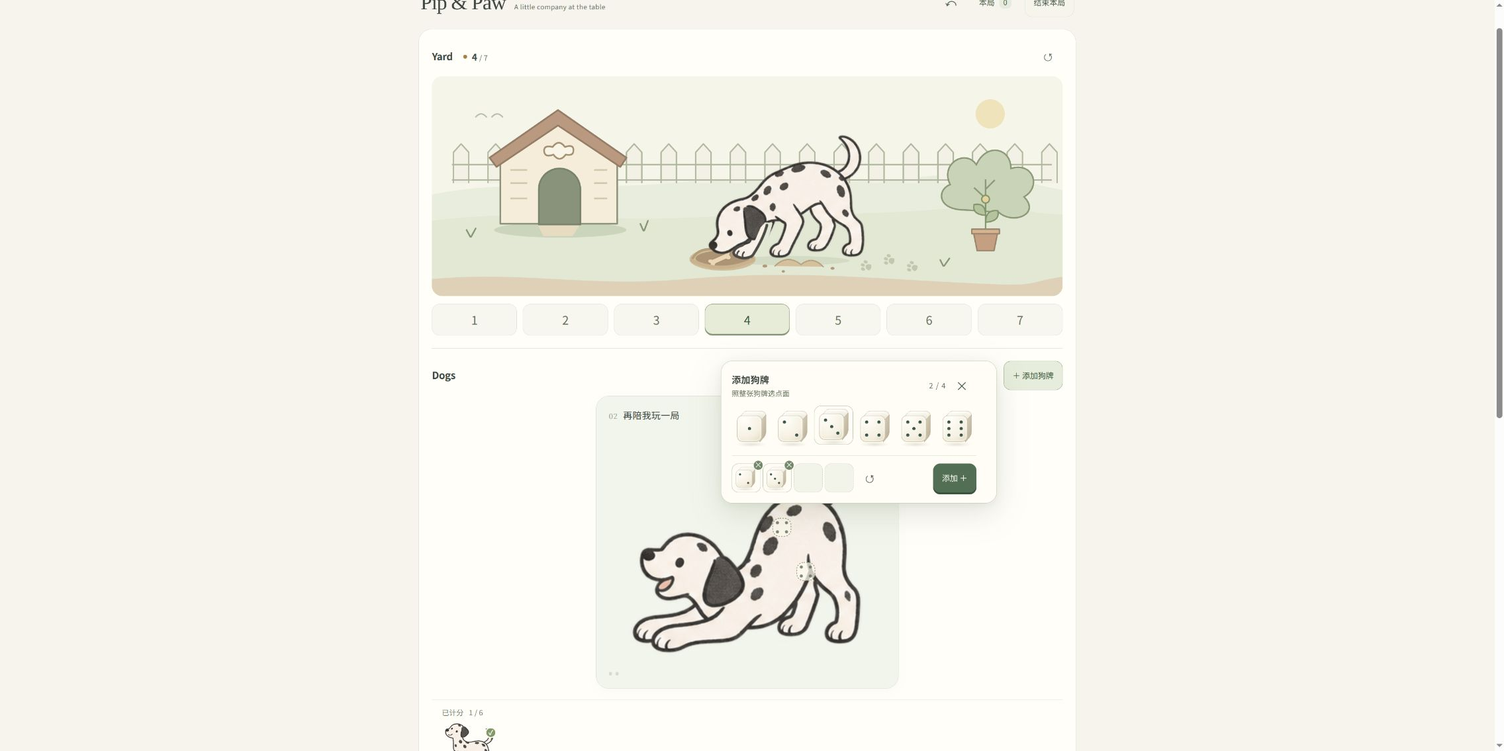
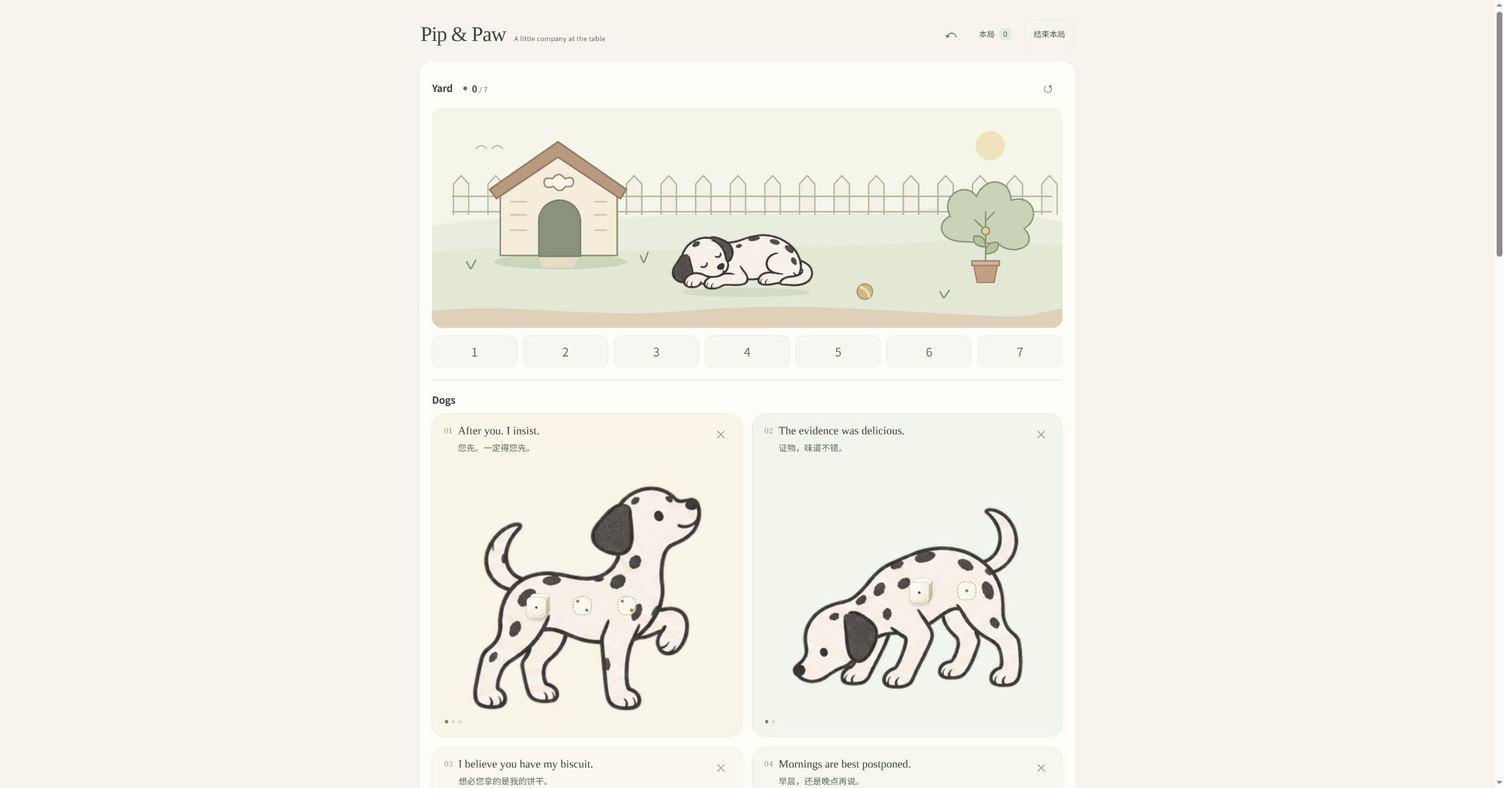
Give twelve dogs bilingual character voices

diff --git a/index.html b/index.html
@@ -197,15 +197,26 @@ main{max-width:1040px;padding-top:30px}.brand strong{font-size:32px}.brand small
 .dog-builder .clear-draft[hidden]{display:inline-flex!important;visibility:hidden;pointer-events:none}
 .dog-builder .create-dog{min-height:44px;padding:10px 13px;font-size:12px}
 .pack-heading-tools #openBuilder[aria-expanded=true],#addNextDog[aria-expanded=true]{background:#e7eddc;border-color:#9dae8e;color:#3e5a3b}
-.pack-card-heading{min-height:50px;height:auto;padding-top:7px;padding-bottom:3px}
-.pack-card-heading>div{min-width:0;gap:8px}
-.pack-card-heading .pack-number{flex:none}
-.pack-card h3{font-size:14px;line-height:1.5;letter-spacing:.025em;overflow-wrap:anywhere}
-.pack-card-heading .remove-dog{flex:none}
-.scored-dog{width:84px;line-height:1.5}
-.scored-dog .new-puppy{width:78px;margin:auto}
-.scored-dog>span:last-of-type{max-width:84px;overflow-wrap:anywhere}
-.settle-dog-name>span:last-child{line-height:1.5;overflow-wrap:anywhere}
+.dog-name{display:block;min-width:0}
+.dog-name-en{display:block;font:400 17px/1.3 Georgia,'Times New Roman',serif;letter-spacing:0;text-transform:none;word-break:normal;overflow-wrap:break-word;text-wrap:pretty}
+.dog-name-zh{display:block;margin-top:5px;font:400 13px/1.55 -apple-system,BlinkMacSystemFont,'Segoe UI','PingFang SC','Noto Sans CJK SC',sans-serif;letter-spacing:0;color:#64715d;word-break:normal;overflow-wrap:break-word}
+.pack-card-heading{min-height:100px;height:auto;align-items:flex-start;gap:6px;padding:15px 10px 9px 18px}
+.pack-card-heading>div{min-width:0;flex:1;align-items:flex-start;gap:8px}
+.pack-card-heading .pack-number{flex:none;margin-top:5px}
+.pack-card h3{min-width:0;font-weight:400;letter-spacing:0}
+.pack-card-heading .remove-dog{flex:0 0 44px;width:44px;min-width:44px;min-height:44px;margin-top:-6px}
+.score-gallery{display:grid;grid-template-columns:repeat(2,minmax(0,1fr));gap:12px 18px;margin-top:9px}
+.scored-dog{display:grid;grid-template-columns:64px minmax(0,1fr);align-items:center;column-gap:8px;width:auto;min-width:0;text-align:left;line-height:1.5}
+.scored-dog .new-puppy{width:64px;margin:0}
+.scored-dog>span:last-of-type{max-width:none;margin-top:0}
+.scored-dog .dog-name-en,.settle-dog-name .dog-name-en,.source-pick .dog-name-en{font-size:15px}
+.scored-dog .dog-name-zh,.settle-dog-name .dog-name-zh,.source-pick .dog-name-zh{margin-top:4px;font-size:12px}
+.scored-dog b{left:47px;right:auto;top:7px}
+.settle-dog-name{flex:1;min-width:0}
+.settle-dog-name>.dog-name{min-width:0;line-height:1.5}
+.source-pick{display:flex;align-items:center;justify-content:space-between;gap:12px;flex:1 1 250px;max-width:100%;padding:10px 12px;text-align:left}
+.source-pick .dog-name{flex:1;min-width:0}
+.source-pick-slot{flex:none;white-space:nowrap;font-size:12px}
 @keyframes builder-unfold{from{opacity:0;clip-path:inset(0 0 0 18% round 18px)}to{opacity:1;clip-path:inset(0 0 0 0 round 18px)}}
 @media(max-width:650px){
  .dog-builder{padding:14px;border-radius:16px}
@@ -216,12 +227,12 @@ main{max-width:1040px;padding-top:30px}.brand strong{font-size:32px}.brand small
  .dog-builder .draft-selection{justify-content:center;gap:6px}
  .dog-builder .draft-slots{gap:5px}
  .dog-builder .create-dog{width:100%}
- .pack-card h3{font-size:13px;letter-spacing:.015em}
  .settle-dog{flex-wrap:wrap;gap:2px;padding:8px 0}
- .settle-dog-name{flex:1 1 100%;font-size:12px}
+ .settle-dog-name{flex:1 1 100%;flex-direction:row;gap:8px;font-size:12px}
  .settle-dog-name .new-puppy{width:48px}
  .settle-dog-slots{margin-left:auto}
 }
+@media(max-width:560px){.score-gallery{grid-template-columns:1fr;gap:10px}.scored-dog{grid-template-columns:64px minmax(0,1fr)}}
 @media(prefers-reduced-motion:reduce){.dog-builder{animation:none}}
 
 
@@ -317,13 +328,35 @@ function dieArt(face, options = {}) {
 // Round 6: the table, the physical cards and the recorded result remain distinct.
 const Game = globalThis.PipGame;
 const STORE_KEY = 'pip-and-paw.current-game.v1';
-const DOG_NAMES = ["后院巡逻队长", "等开饭的伯爵", "草坪包场先生", "再陪我玩一局", "追风不看路", "尾巴追踪专员", "先让我闻闻", "饼干失踪嫌疑狗", "举爪申请加餐", "伸个懒腰再说", "骰响也不醒", "斑点快递员"];
+const DOG_NAMES = [
+ {en:'Life’s too short to bark at everybody.',zh:'人生苦短，何必逢人就汪。'},
+ {en:'I shall regret this after lunch.',zh:'等吃过午饭，我会反省的。'},
+ {en:'I could watch you work all day.',zh:'你忙你的，我能看一整天。'},
+ {en:'Shall we misbehave?',zh:'要不，闯点小祸？'},
+ {en:'I hadn’t planned the landing.',zh:'起跳时，倒没想过落地。'},
+ {en:'We’ve met before, haven’t we?',zh:'阁下，咱们是不是见过？'},
+ {en:'After you. I insist.',zh:'您先。一定得您先。'},
+ {en:'The evidence was delicious.',zh:'证物，味道不错。'},
+ {en:'I believe you have my biscuit.',zh:'想必您拿的是我的饼干。'},
+ {en:'Mornings are best postponed.',zh:'早晨，还是晚点再说。'},
+ {en:'I shall sleep on it.',zh:'这事，容我睡一觉再议。'},
+ {en:'I know a longer way home.',zh:'回家，我知道一条远路。'}
+];
 const AWARD_LINES = {'凤毛麟角':'少见的落点，恰好与你相逢。','百里挑一':'百般可能里，偏得这一回。','妙手偶得':'偶然一掷，落成意外之喜。','不期而遇':'未曾刻意，恰在此时相遇。','水到渠成':'点面相合，自然成章。','波澜不惊':'这一掷安然收住，留下一段从容的空白。','无妄之灾':'微小的岔路，偏在这一掷遇见。','平地风波':'原本平静的局面，忽然起了一阵波澜。','一波三折':'这一掷稍有曲折，留待下一手舒展。','山重水复':'此处山重水复，再寻下一段去路。','风雨寻常':'风雨也在常情之中，重整牌面再出发。'};
 let table = Game.newGame(), draftFaces = [], builderOpen = false;
 let undoStack = [], pending = null, pendingSerial = 0, toastTimer = null;
 let lastDogRender = '', historyGroup = null, loadingSaved = false;
 let outcomeCache = Object.create(null);
 const escapeHTML = value => String(value).replace(/[&<>"']/g, c => ({'&':'&amp;','<':'&lt;','>':'&gt;','"':'&quot;',"'":'&#39;'}[c]));
+function dogIdentity(pose) { return DOG_NAMES[pose] || DOG_NAMES[0]; }
+function dogNameText(pose) {
+ const name=dogIdentity(pose);
+ return name.zh+' / '+name.en;
+}
+function dogNameMarkup(pose) {
+ const name=dogIdentity(pose);
+ return '<span class="dog-name"><span class="dog-name-en" lang="en">'+escapeHTML(name.en)+'</span> <span class="dog-name-zh" lang="zh-CN">'+escapeHTML(name.zh)+'</span></span>';
+}
 const copy = value => JSON.parse(JSON.stringify(value));
 function normalizedProbability(p) {
  if(!Number.isFinite(p)||p < -1e-12||p > 1+1e-12)return null;
@@ -529,13 +562,13 @@ function renderDogs() {
  const unscored=table.cards.filter(c=>!c.scored),scored=table.cards.filter(c=>c.scored);
  $('dogs').innerHTML=unscored.map(card=>{
   const storedPose=DOG_ART.poses[card.pose],pose=storedPose?.slots[String(card.faces.length)]?storedPose:DOG_ART.poses.find(p=>p.slots[String(card.faces.length)]),positions=pose.slots[String(card.faces.length)];
-  const complete=card.filled.every(Boolean),name=DOG_NAMES[card.pose]||'小狗';
-  return '<article class="pack-card'+(complete?' is-complete':'')+'" data-dog-id="'+card.id+'" style="--card-tone:'+['#faf8ef','#f6f7ed','#f9f5e9','#f2f5eb'][card.pose%4]+'"><div class="pack-card-heading"><div><span class="pack-number">'+String(table.cards.indexOf(card)+1).padStart(2,'0')+'</span><h3>'+name+'</h3></div><button class="icon-button remove-dog" data-remove="'+card.id+'" aria-label="移除'+name+'狗牌" '+(table.endedAt?'disabled':'')+'>×</button></div><div class="pack-figure" aria-label="'+pose.label+'的斑点狗">'+dogSprite(pose.id)+card.faces.map((face,i)=>'<button type="button" class="card-slot '+(card.filled[i]?'is-filled':'')+'" data-dog="'+card.id+'" data-slot="'+i+'" data-slot-key="'+card.id+':'+i+'" style="--slot-x:'+positions[i][0]*100+'%;--slot-y:'+positions[i][1]*100+'%" aria-pressed="'+card.filled[i]+'" aria-label="'+name+'，第'+(i+1)+'格，'+face+'点，'+(card.filled[i]?'已填':'空位')+'" '+(table.endedAt?'disabled':'')+'>'+(card.filled[i]?dieArt(face):emptySpot(face))+'</button>').join('')+'</div><div class="pack-card-foot"><span class="pack-progress" aria-label="已填'+card.filled.filter(Boolean).length+'格，共'+card.faces.length+'格">'+card.filled.map(on=>'<i class="'+(on?'on':'')+'"></i>').join('')+'</span><span>'+(complete?'已填满 · 待计分':'')+'</span></div></article>';
+  const complete=card.filled.every(Boolean),name=dogNameText(card.pose);
+  return '<article class="pack-card'+(complete?' is-complete':'')+'" data-dog-id="'+card.id+'" style="--card-tone:'+['#faf8ef','#f6f7ed','#f9f5e9','#f2f5eb'][card.pose%4]+'"><div class="pack-card-heading"><div><span class="pack-number">'+String(table.cards.indexOf(card)+1).padStart(2,'0')+'</span><h3>'+dogNameMarkup(card.pose)+'</h3></div><button class="icon-button remove-dog" data-remove="'+card.id+'" aria-label="'+escapeHTML('移除狗牌：'+name)+'" '+(table.endedAt?'disabled':'')+'>×</button></div><div class="pack-figure" aria-label="'+pose.label+'的斑点狗">'+dogSprite(pose.id)+card.faces.map((face,i)=>'<button type="button" class="card-slot '+(card.filled[i]?'is-filled':'')+'" data-dog="'+card.id+'" data-slot="'+i+'" data-slot-key="'+card.id+':'+i+'" style="--slot-x:'+positions[i][0]*100+'%;--slot-y:'+positions[i][1]*100+'%" aria-pressed="'+card.filled[i]+'" aria-label="'+escapeHTML(name+'，第'+(i+1)+'格，'+face+'点，'+(card.filled[i]?'已填':'空位'))+'" '+(table.endedAt?'disabled':'')+'>'+(card.filled[i]?dieArt(face):emptySpot(face))+'</button>').join('')+'</div><div class="pack-card-foot"><span class="pack-progress" aria-label="已填'+card.filled.filter(Boolean).length+'格，共'+card.faces.length+'格">'+card.filled.map(on=>'<i class="'+(on?'on':'')+'"></i>').join('')+'</span><span>'+(complete?'已填满 · 待计分':'')+'</span></div></article>';
  }).join('');
  $('dogs').classList.toggle('one-dog',unscored.length===1);
  $('scoredDogs').hidden=scored.length===0;
  $('scoredCount').textContent=scored.length+' / 6';
- $('scoredList').innerHTML=scored.map(card=>'<div class="scored-dog" title="'+DOG_NAMES[card.pose]+'，已计分">'+dogSprite(card.pose)+'<span>'+DOG_NAMES[card.pose]+'</span><b aria-label="已计分">✓</b></div>').join('');
+ $('scoredList').innerHTML=scored.map(card=>'<div class="scored-dog" title="'+escapeHTML(dogNameText(card.pose)+'，已计分')+'">'+dogSprite(card.pose)+dogNameMarkup(card.pose)+'<b aria-label="已计分">✓</b></div>').join('');
  $('bankDogs').hidden=!unscored.some(c=>c.filled.every(Boolean))||!!table.endedAt;
  $('packEmpty').hidden=unscored.length>0||table.cards.length===0||table.cards.length>=6||!!table.endedAt;
  lastDogRender=key;
@@ -626,8 +659,8 @@ function renderSettlementSlots() {
  if(!pending)return;
  const p=pending,work=pendingWork();
  $('settleSource').hidden=p.type==='bust'||p.sourceCandidates.length<=1;
- $('settleSourceChoices').innerHTML=p.sourceCandidates.map((x,i)=>'<button type="button" class="source-pick" data-source-pick="'+i+'" aria-pressed="'+(p.sourcePick?.dogId===x.dogId&&p.sourcePick?.slot===x.slot)+'">'+DOG_NAMES[work.cards.find(c=>c.id===x.dogId).pose]+' · 第'+(x.slot+1)+'格</button>').join('');
- $('settlementDogs').innerHTML=work.cards.filter(c=>!c.scored).map(card=>'<div class="settle-dog"><div class="settle-dog-name">'+dogSprite(card.pose)+'<span>'+DOG_NAMES[card.pose]+'</span></div><div class="settle-dog-slots">'+card.faces.map((face,slot)=>'<button type="button" class="settle-slot" data-settle-dog="'+card.id+'" data-settle-slot="'+slot+'" aria-label="'+DOG_NAMES[card.pose]+'第'+(slot+1)+'格'+face+'点" aria-pressed="'+p.selected.some(x=>x.dogId===card.id&&x.slot===slot)+'" '+(card.filled[slot]?'disabled':'')+'>'+(card.filled[slot]?dieArt(face):emptySpot(face))+'</button>').join('')+'</div></div>').join('');
+ $('settleSourceChoices').innerHTML=p.sourceCandidates.map((x,i)=>'<button type="button" class="source-pick" data-source-pick="'+i+'" aria-pressed="'+(p.sourcePick?.dogId===x.dogId&&p.sourcePick?.slot===x.slot)+'">'+dogNameMarkup(work.cards.find(c=>c.id===x.dogId).pose)+'<span class="source-pick-slot">第 '+(x.slot+1)+' 格</span></button>').join('');
+ $('settlementDogs').innerHTML=work.cards.filter(c=>!c.scored).map(card=>'<div class="settle-dog"><div class="settle-dog-name">'+dogSprite(card.pose)+dogNameMarkup(card.pose)+'</div><div class="settle-dog-slots">'+card.faces.map((face,slot)=>'<button type="button" class="settle-slot" data-settle-dog="'+card.id+'" data-settle-slot="'+slot+'" aria-label="'+escapeHTML(dogNameText(card.pose)+'，第'+(slot+1)+'格，'+face+'点')+'" aria-pressed="'+p.selected.some(x=>x.dogId===card.id&&x.slot===slot)+'" '+(card.filled[slot]?'disabled':'')+'>'+(card.filled[slot]?dieArt(face):emptySpot(face))+'</button>').join('')+'</div></div>').join('');
 }
 function settlementReport() {
  return PipSettlement.analyze(pending,pendingWork(),{

diff --git a/QA_REPORT.md b/QA_REPORT.md
@@ -1,83 +1,65 @@
-# Pip & Paw QA · 1.0.0-rc.12
+# Pip & Paw QA · 1.0.0-rc.13
 
 Date: **2026-11-27**.
 
-This release repairs interrupted dog creation, moves the palette to the left of its entrance, and coordinates the dog and props in the Yard. Connected Chrome checks exercised consecutive die selections through creation, repeated faces, draft editing, keyboard activation, and the second Add dog entrance.
+This release gives the twelve existing Dalmatian poses bilingual character lines. The same identity appears on a regular card, in the scored gallery, and in settlement and source selection. The illustrations and game models remain unchanged.
 
 ## Candidate
 
 | File | Bytes | SHA-256 |
 |---|---:|---|
[4 lines of base64/hex data omitted]
 
-Both model files, the probability core, and both illustration atlases are unchanged from rc.11. The offline runtime remains `index.html`, those two scripts, `assets/dalmatian-poses.webp`, and `assets/puppy-actions.webp`.
+Both model files, both runtime illustration atlases, and the probability/Action calculation block are byte-for-byte equal to rc.12. The local-storage key and saved card shape are unchanged. Names are resolved from each card’s existing pose when rendered.
 
-## Dog-creation regression
+## Twelve real card creations
 
-The reported failure was reproduced in rc.11: from a two-dog board, opening the palette and selecting 1 displayed **1 / 4**, but the palette closed before the next selection of 2 could complete. The board still contained two dogs. The earlier rc.11 checks therefore did not establish reliable consecutive selection in this interaction path.
+All twelve identities were generated through the existing builder in isolated Chrome games. Each selected face produced a separate space, including repeated faces. The first group exercised pointer and keyboard activation; the second group used keyboard activation. No fixture cards were added to the public site.
 
-The repair removes dismissal triggered by a transient loss of focus inside the component. Native Popover light dismissal, the fallback's outside-pointer handler, Escape, and explicit close remain the closing paths.
+| Pose | Faces entered | English identity |
+|---:|---|---|
+| 0 | 5 | Life’s too short to bark at everybody. |
+| 1 | 1 | I shall regret this after lunch. |
+| 2 | 3, 6 | I could watch you work all day. |
+| 3 | 4, 4 | Shall we misbehave? |
+| 4 | 2, 3 | I hadn’t planned the landing. |
+| 5 | 6, 6 | We’ve met before, haven’t we? |
+| 6 | 1, 2, 2 | After you. I insist. |
+| 7 | 1, 1 | The evidence was delicious. |
+| 8 | 1, 2 | I believe you have my biscuit. |
+| 9 | 2 | Mornings are best postponed. |
+| 10 | 3 | I shall sleep on it. |
+| 11 | 4 | I know a longer way home. |
 
-The rc.12 candidate completed these connected-Chrome interactions:
+The rendered English and Chinese names were inspected with their actual poses. No heading overflow was measured. The full bilingual copy and literary source relationships are in the [README](README.md#meet-the-dogs).
 
-- **Consecutive selections and editing:** chose **1 → 2 → 2 → 6**, removed 6, and chose 4. Closing and reopening retained **[1,2,2,4]**. Confirmation created one dog with four separate empty spaces.
-- **Keyboard creation:** selected a single 5 and pressed Enter to create its one-space dog.
-- **Dismissal:** Escape and an outside click closed the palette; reopening retained the selected draft faces.
-- **Second entrance:** with one scored dog and no unscored dogs, the empty-state Add dog entrance accepted **4 → 4** and created a two-space dog. The scored dog remained in the gallery.
-- **Narrow-screen creation:** at 320 px, selecting **1 → 6** and confirming created a dog with two separate empty spaces.
+## Regular, scored and settlement layouts
 
-These checks used an isolated QA origin. The public site's current game was preserved.
+Regular cards use 17 px English serif text and 13 px Chinese text. Close buttons retain 44 × 44 px targets. The scored gallery uses a small dog at the left of a readable bilingual name: two columns on desktop and one on narrow screens.
 
-## Layout
+Two dogs with long names, poses 0 and 5, were filled and scored through the controls. Their two languages remained visible on desktop and in both narrow frames. Both groups of six were inspected in settlement dialogs.
 
-The desktop palette measured **420 × 217 px** and opened on the **left** of its entrance.
+| Chrome iframe | Content width | Content scroll width | Result |
+|---|---:|---:|---|
+| 390 px | 375 px | 375 px | No horizontal page overflow; full ordinary and scored names. |
+| 320 px | 305 px | 305 px | No horizontal page overflow; long English wraps at words. |
 
-| Chrome iframe | Content width | Horizontal overflow | Palette |
-|---|---:|---|---|
-| 390 × 1080 px | 375 px | None | 351 × 333.8 px at x = 12, y = 429; below the entrance. |
-| 320 × 1080 px | 305 px | None | 281 × 333.8 px at x = 12, y = 444; below the entrance. |
+For Dogpile, two different dogs held a filled 1-point space. The source selector displayed both bilingual identities and their slot numbers. Selecting the first source changed its selected state and left the other unselected. At 320 px, the settlement dialog’s client and scroll widths were both **273 px**; all eight displayed name blocks, including the two source choices, had no horizontal overflow. Names and dice occupied separate rows where needed.
 
-The Yard, general module, and controls retained the same measured bounds before and after opening. These narrow-layout measurements used Chrome iframes. The captured narrow-screen console error list was empty.
+These responsive observations used Chrome iframes, not physical mobile devices. The captured candidate console error list was empty.
 
-## Yard
+## Checks and review
 
-The eight scenes use the existing Dalmatian atlas within the same SVG coordinate system as the landscape and props. Their activities are:
+- `python3 tests/test_release.py`: **8 passed** in the final candidate. The checks cover the local runtime, storage scope, release files, page structure and JavaScript syntax.
+- The unified name renderer was checked for correct escaping of quotes, apostrophes, ampersands and angle brackets. English and Chinese spans carry their respective language tags.
+- A bounded current-executor review inspected all twelve names against their poses, the source attribution, the ordinary/scored/settlement views, and the unchanged game data contract. It found no material issue within this naming update. This is self review, not independent human acceptance.
 
-| Yard total | Activity |
-|---:|---|
-| 0 | Napping |
-| 1 | Exploring |
-| 2 | Sniffing the soil |
-| 3 | Digging |
-| 4 | Discovering a bone |
-| 5 | Inviting play |
-| 6 | Looking back |
-| 7 | Resting beside the bone |
-
-The Yard still represents the entered total; seven remains valid. The scenes no longer use progressively collapsing fences or flowerpots to represent that total.
-
-Rendered checks covered all eight scenes and two digging-paw phases in Inkscape, plus scene 4 in desktop and 390 px Chrome and scene 7 at 320 px. In Chrome, switching to scene 4 changed the paw rotation, moved the loose soil outward while its opacity rose from 0 to above 0.85, and revealed the bone from opacity 0 to 1.
-
-## Fallback and reduced motion
-
-Escape handling now stays available while the builder is open, including after keyboard focus moves outside it.
-
-A separate same-origin QA copy disabled the native Popover path and attributes. Selecting **1 → 2** succeeded. Pressing Tab from the create button moved focus to an outside dog-removal button while the palette remained open; Escape then closed it. Reopening restored **2 / 4**, and confirmation created **举爪申请加餐** with two empty spaces. Reloading the final native-Popover candidate, selecting 6, and pressing Escape also closed the palette.
-
-The QA copy forced the reduced-motion CSS branches on. Chrome reported **no paw animation**, **hidden dust**, and **bone opacity 1**. Its console error list was empty. This checks the fallback and CSS branches in Chrome; it does not use an operating-system preference change or a physical iOS device.
-
-## Automated checks
-
-`python3 tests/test_release.py`: **8 passed** in the final candidate directory after the Escape-handler change, and **8 passed** after extracting the 22-file offline ZIP into a separate temporary directory. These checks cover page structure, current-game storage scope, local dependencies, release files, and JavaScript syntax.
-
-The game-model, settlement-model, and scripted browser regression suites were not rerun for rc.12. Their earlier results remain in the corresponding reports in repository history.
+The game-model, settlement-model and earlier probability regression suites were not rerun for this copy/layout change. Their previous results remain in repository history.
 
 ## Screenshots
 
-[Desktop: left-opening palette and scene 4](assets/preview-desktop.jpg) · [Narrow Chrome frames: scenes 4 and 7](assets/mobile.jpg) · [Game report, rc.10](assets/game-report.jpg)
+[Desktop dog cards](assets/preview-desktop.jpg) · [390 px cards and 320 px settlement](assets/mobile.jpg) · [Game report, rc.10](assets/game-report.jpg)
 
-The desktop and narrow-layout images show rc.12. The game-report screenshot remains from rc.10.
-
-Earlier version reports remain in repository history. Release changes are listed in [CHANGELOG.md](CHANGELOG.md).
+The desktop and narrow-layout images show rc.13. The game-report image remains from rc.10.

diff --git a/README.md b/README.md
@@ -1,10 +1,10 @@
 # Pip & Paw · A Spots companion
 
-**1.0.0-rc.12**
+**1.0.0-rc.13**
 
-**[Open the app](https://bibobrain.github.io/spots-table-companion/)** · **[Download the offline ZIP](https://github.com/bibobrain/spots-table-companion/releases/download/v1.0.0-rc.12/PipAndPaw_1.0.0-rc12.zip)**
+**[Open the app](https://bibobrain.github.io/spots-table-companion/)** · **[Download the offline ZIP](https://github.com/bibobrain/spots-table-companion/releases/download/v1.0.0-rc.13/PipAndPaw_1.0.0-rc13.zip)**
 
-A free, unofficial tabletop companion for CMYK’s **Spots**. Build your dog cards, compare the next roll, and keep a record of the game you are playing. English section names, bilingual Action names, Chinese explanations, and original Dalmatian illustrations. No account or installation.
+A free, unofficial tabletop companion for CMYK’s **Spots**. Build your dog cards, compare the next roll, and keep a record of the game you are playing. English section names, bilingual dog and Action names, Chinese explanations, and original Dalmatian illustrations. No account or installation.
 
 ## At the table
 
@@ -18,9 +18,28 @@ A free, unofficial tabletop companion for CMYK’s **Spots**. Build your dog car
 
 ## 中文使用说明
 
-点「添加狗牌」，在向左展开的小组件里选 1–4 颗骰面，再确认生成狗牌；窄屏会贴着按钮调整位置。关掉后，已选骰面会留到下次打开，牌桌保持原位。同一点数可以重复选择，每一颗都对应一个独立空位，一局最多保留六张狗牌。十二种斑点狗姿态各有名字：后院巡逻队长、饼干失踪嫌疑狗、骰响也不醒……后院随 0–7 点展示打盹、巡游、闻土、刨坑、发现骨头和玩耍，7 点仍未爆掉。
+点「添加狗牌」，在向左展开的小组件里选 1–4 颗骰面，再确认生成狗牌；窄屏会贴着按钮调整位置。关掉后，已选骰面会留到下次打开，牌桌保持原位。同一点数可以重复选择，每一颗都对应一个独立空位，一局最多保留六张狗牌。十二种斑点狗姿态各有一句中英双语的性格名字；普通狗牌、已计分栏和结算里都能认出同一只狗。后院随 0–7 点展示打盹、巡游、闻土、刨坑、发现骨头和玩耍，7 点仍未爆掉。
 
 直接点狗身上的空位用于校正实体桌面。实际掷完后，先点 Roll 或 Action 中对应的结果，再确认填入的位置、后院总点数和消耗的骨头。确认 BUST 会记录本次结果，并清空后院与未计分狗牌上的骰子，保留狗牌和已计分的狗。误操作可撤销。点「结束本局」查看整局战绩与一个称号；称号取自本局有有效正概率的结算中最少见的一次。浏览器只保存当前这一局，开始新局会替换它。
+
+## Meet the dogs
+
+| Pose | English | 中文 |
+|---|---|---|
+| Curious stand | Life’s too short to bark at everybody. | 人生苦短，何必逢人就汪。 |
+| Patient sit | I shall regret this after lunch. | 等吃过午饭，我会反省的。 |
+| Lounging | I could watch you work all day. | 你忙你的，我能看一整天。 |
+| Play bow | Shall we misbehave? | 要不，闯点小祸？ |
+| Leaping | I hadn’t planned the landing. | 起跳时，倒没想过落地。 |
+| Looking back at its tail | We’ve met before, haven’t we? | 阁下，咱们是不是见过？ |
+| Cautious raised paw | After you. I insist. | 您先。一定得您先。 |
+| Sniffing | The evidence was delicious. | 证物，味道不错。 |
+| Asking with a paw | I believe you have my biscuit. | 想必您拿的是我的饼干。 |
+| Stretching | Mornings are best postponed. | 早晨，还是晚点再说。 |
+| Sleeping | I shall sleep on it. | 这事，容我睡一觉再议。 |
+| Strolling | I know a longer way home. | 回家，我知道一条远路。 |
+
+The first line shortens a remark made by the dog in P. G. Wodehouse’s [The Mixer, part I](https://en.wikisource.org/wiki/The_Mixer_(I._He_Meets_a_Shy_Gentleman)). The lounging dog’s line adapts the narrator’s fondness for watching work in Jerome K. Jerome’s [Three Men in a Boat, chapter 15](https://en.wikisource.org/wiki/Three_Men_in_a_Boat_(1889)/Chapter_15). The patient sitter’s line is newly written, inspired by Algernon calmly eating muffins amid trouble in Oscar Wilde’s [The Importance of Being Earnest, act II](https://en.wikisource.org/wiki/The_Importance_of_Being_Earnest/Act_II). The remaining lines and all Chinese versions were written for these poses, using ordinary conversational turns and idioms.
 
 ## Screenshots
 

diff --git a/CHANGELOG.md b/CHANGELOG.md
@@ -1,5 +1,11 @@
 # Changelog
 
+## 1.0.0-rc.13 — 2026-11-27
+
+- **Twelve bilingual characters:** each Dalmatian pose now has a short English line and a Chinese counterpart that express its own habits, excuses or wishes. Literary adaptations and their sources are identified in the README.
+- **Names throughout the table:** regular dog cards, the scored gallery, settlement dogs and source choices display the same bilingual identity. The scored gallery gives each name readable space beside its dog.
+- Existing games resolve the new names from their saved poses. Card faces, placed dice, scores, records, probability calculations and illustration atlases are unchanged.
+
 ## 1.0.0-rc.12 — 2026-11-27
 
 - **Reliable dog creation:** fixed the palette closing during internal focus changes after a die selection. Consecutive selections, repeated faces, draft edits, and the final create action now remain in the same open component. Closing and reopening still keeps the draft. Escape also closes it after Tab moves focus outside.
